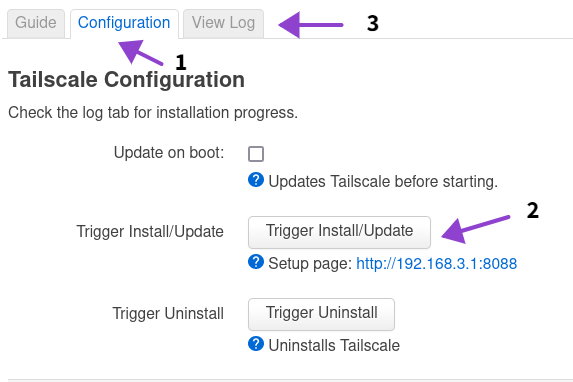
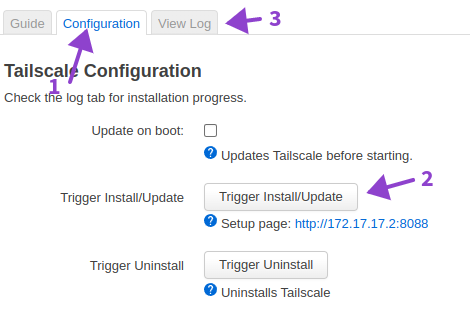
Change LAN IP, update screenshots
New IP: 172.17.17.2

diff --git a/luci-app-tailscaleconf/luasrc/view/tailscaleconf/guidehelp.htm b/luci-app-tailscaleconf/luasrc/view/tailscaleconf/guidehelp.htm
@@ -5,9 +5,9 @@
 <img src="/luci-static/resources/view/tailscaleconf/1.png"/>
 <h5>Log result should be similiar to:</h5>
 <img src="/luci-static/resources/view/tailscaleconf/2.png"/>
-<h5>Visit: <a href="http://192.168.3.1:8088/" target="_blank">http://192.168.3.1:8088/</a> to login to Tailscale.<br>After a succesful login, visit: <a href="https://login.tailscale.com/admin/machines" target="_blank">https://login.tailscale.com/admin/machines</a> and toggle settings as following:</h5>
+<h5>Visit: <a href="http://172.17.17.2:8088/" target="_blank">http://172.17.17.2:8088/</a> to login to Tailscale.<br>After a succesful login, visit: <a href="https://login.tailscale.com/admin/machines" target="_blank">https://login.tailscale.com/admin/machines</a> and toggle settings as following:</h5>
 <img src="/luci-static/resources/view/tailscaleconf/3.png" style="max-height:300px"/><br>
 <img src="/luci-static/resources/view/tailscaleconf/4.png" style="max-height:300px"/><br>
 <img src="/luci-static/resources/view/tailscaleconf/5.png" style="max-height:300px"/><br>
-<h5>Done! You should be able to access your local (LAN) devices from range 192.168.3.0 to 192.168.3.255 remotely on any device that has Tailscale connected to the same account.</h5>
+<h5>Done! You should be able to access your local (LAN) devices from range 172.17.17.0 to 172.17.17.255 remotely on any device that has Tailscale connected to the same account.</h5>
 <%+footer%>

diff --git a/luci-app-piholeconf/luasrc/view/piholeconf/guidehelp.htm b/luci-app-piholeconf/luasrc/view/piholeconf/guidehelp.htm
@@ -4,7 +4,7 @@
 <img src="/luci-static/resources/view/piholeconf/1.png" style="max-height:300px">
 <h5>Installation takes approximatiely ~3 minutes, manually refresh the page to update log contents.<br>Bottom of the log output after succesful installation should be similiar to:</h5>
 <img src="/luci-static/resources/view/piholeconf/2.png">
-<h5>You can now visit Pi-hole admin page by the following address: <a href="http://192.168.3.3/admin" target="_blank">http://192.168.3.3/admin</a></h5><br>
+<h5>You can now visit Pi-hole admin page by the following address: <a href="http://172.17.17.3/admin" target="_blank">http://172.17.17.3/admin</a></h5><br>
 <h3>After installation: </h3>
 <h5>‣ SmoothWAN DHCP settings are automatically configured after installation.<br>
 ‣ Reconnect every device on the network that is connected to SmoothWAN to update the DNS settings.<br>
